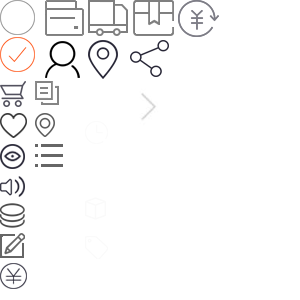
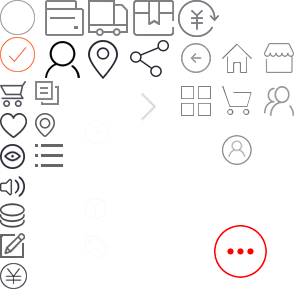
修改部分页面的样式

diff --git a/m/Mobile-mall/css/shopping_car.css b/m/Mobile-mall/css/shopping_car.css
@@ -1,14 +1,14 @@
 @charset "UTF-8";
 body{background-color: #f0f0f0;}
 /*头部*/
-header{height: 50px;line-height: 50px;border-bottom: 1px solid #cacaca;margin-bottom: 20px;font-size: 14px;padding: 0 10px;background-color: #fff;top: 0;}
+header{height: 50px;line-height: 50px;border-bottom: 1px solid #cacaca;font-size: 14px;padding: 0 10px;background-color: #fff;top: 0;}
 header,footer{width: 100%;position: fixed;left: 0;z-index: 2;-webkit-box-sizing: border-box;box-sizing: border-box;}
 header .btnBox{float: right;margin-top: 10px;}
 header .btn{height: 28px;border: 1px solid #ccc;color: #000;padding: 0 20px;float: left;line-height: 28px;}
 header .btn:first-child{margin-right: 20px;}
 /*产品*/
-.productBox{border-top: 1px solid #ccc;border-bottom: 1px solid #ccc;background-color: #fff;margin-bottom: 20px;}
-.productBox:first-of-type{margin-top: 70px;}
+.productBox{border-top: 1px solid #ccc;border-bottom: 1px solid #ccc;background-color: #fff;margin-bottom: 10px;}
+.productBox:first-of-type{margin-top: 60px;}
 .productBox:last-of-type{margin-bottom: 70px;}
 .product{/*height: 157px;*/border-bottom: 1px solid #ccc;padding: 20px 10px 0 10px;}
 .pro-content{height: 4.2rem;position: relative;}
@@ -24,8 +24,8 @@ header .btn:first-child{margin-right: 20px;}
 .product .pro-text .price b{color: #666;text-decoration: line-through;margin-left: 30px;font-size: .6rem;}
 .number-control{border: 1px solid #cdcdcd;height: 1.95rem;line-height: 1.95rem;float: left;vertical-align: middle;overflow: hidden;margin-bottom: 15px;margin-left: 6.025rem;}
 .number-control .decrease,.number-control .increase{height: 100%;width: 1.95rem;background-color: #efefef;color: #767676;-webkit-user-select: none;display: inline-block;font-size: 1rem;border: none;}
-.number-control .decrease{border-right: 1px solid #cdcdcd;}
-.number-control .increase{border-left: 1px solid #cdcdcd;}
+.number-control .decrease{border-left: 1px solid #cdcdcd;}
+.number-control .increase{border-right: 1px solid #cdcdcd;}
 .number-control .num{height: 100%;width: 2.75rem;padding: 0 .2rem;-webkit-box-sizing: border-box;box-sizing: border-box;border: none;}
 .number-control .decrease,.number-control .increase,.number-control .num{text-align: center;float: left;}
 .productBox .count{float: right;font-size: 0;height: 50px;line-height: 50px;padding: 0 10px;}
@@ -39,7 +39,7 @@ footer .checkAll{margin-left: 10px;margin-right: 13px;}
 footer .checkAll .checkbox{margin-right: 5px;margin-top: -2px;}
 footer .checkAll,footer p{display: inline-block;font-size: .6rem;}
 footer p span{margin-right: .35rem;color: #ff4401;}
-footer .submit{height: 100%;background-color: #696969;color: #fff;font-size: 14px;padding: 0 10px;float: right;}
+footer .submit{width: 77px;height: 100%;background-color: #696969;color: #fff;font-size: 14px;/*padding: 0 25px;*/float: right;margin-bottom: 10px;text-align: center;}
 footer .submit em{font-style: normal;}
 /*无商品状态*/
 .no-goods .shopping-icon{width: 4.375rem;height: 4.375rem;line-height: 4.375rem;background-color: #d8d8d8;margin: 81px auto 0;border-radius: 999px;text-align: center;}
@@ -49,3 +49,26 @@ footer .submit em{font-style: normal;}
 .no-goods .btnBox{width: 12rem;margin: 20px auto 40px;}
 .no-goods .btnBox a{width: 5.5rem;height: 40px;line-height: 40px;text-align: center;font-size: .6rem;color: #000;border: 1px solid #a8a8a8;float: left;}
 .no-goods .btnBox a:first-of-type{margin-right: .5rem;}
+/*悬浮状态*/
+.shopping-menuBox{width: 45px;height: 45px;position: fixed;bottom: 93px;right: 0;z-index: 9;}
+.shopping-menu{width: 45px;height: 45px;background: rgba(0,0,0,.8);text-align: center;display: block;}
+.shopping-menu .shopping-menuIcon{width: 27px;height: 27px;margin-top: 9px;background: url(../images/icon.png) no-repeat;background-size: 150px 150px;background-position: -66px -112px;display: inline-block;}
+.shopping-menuBox .menuList{width: 80px;background-color: #fff;padding: 0 10px 0 15px;border: 1px solid #d9d9d9;position: absolute;right: 0;bottom: 50px;display: none;}
+.shopping-menuBox .menuList a{/*height: 44px;line-height: 44px;*/padding: .5rem 0 .6rem 0;color: #585858;display: block;border-bottom: 1px solid #d9d9d9;font-size: 14px;}
+.shopping-menuBox .menuList a:last-of-type{border-bottom: 0;}
+.shopping-menuBox .arrow{ position:absolute; width:12px; height:12px; bottom:-12px; right: 22%; }
+.shopping-menuBox .arrow *{ display:block; border-width:6px; position:absolute; border-style:solid dashed dashed dashed; font-size:0; line-height:0; }
+.shopping-menuBox .arrow em{border-color:#fff transparent transparent;}
+.shopping-menuBox .arrow span{border-color:#d9d9d9 transparent transparent;}
+/*.shopping-menuBox .arrow:after,.shopping-menuBox .arrow:before{border: transparent solid;content:' ';height:0;left:100%;position:absolute;width:0;}
+.shopping-menuBox .arrow:after{border-width:9px;border-top-color:#fff;top:15px;}
+.shopping-menuBox .arrow:before{border-width:14px;border-top-color:#d9d9d9;top:10px;}*/
+/*悬浮状态图标*/
+.back-icon,.goods-icon,.store-icon,.cart-icon,.my-icon,.team-icon,.center-icon{width: 16px;height: 16px;background: url(../images/icon.png) no-repeat;background-size: 150px 150px;display: inline-block;vertical-align: middle;margin-right: 8px;margin-top: -3px;}
+.back-icon{background-position: -90px -21px;}
+.goods-icon{width: 16px;background-position: -90px -43px;}
+.store-icon{height: 16px;background-position: -111px -22px;}
+.cart-icon{background-position: -111px -43px;}
+.my-icon{height: 16px;background-position: -131px -21px;}
+.team-icon{background-position: -132px -43px;}
+.center-icon{height: 16px;background-position: -111px -67px;}

diff --git a/m/Mobile-mall/shopping_car.html b/m/Mobile-mall/shopping_car.html
@@ -52,9 +52,9 @@
 				</div>
 			</div>
 			<div class="number-control clearfix">
-				<button type="button" class="decrease">-</button>
-				<input type="number" class="num" value="1" min="1" max="13583" name="quantity">
 				<button type="button" class="increase">+</button>
+				<input type="number" class="num" value="1" min="1" max="13583" name="quantity">
+				<button type="button" class="decrease">-</button>
 			</div>
 		</div>
 		<div class="count">
@@ -80,9 +80,9 @@
 				</div>
 			</div>
 			<div class="number-control clearfix">
-				<button type="button" class="decrease">-</button>
-				<input type="number" class="num" value="1" min="1" max="13583" name="quantity">
 				<button type="button" class="increase">+</button>
+				<input type="number" class="num" value="1" min="1" max="13583" name="quantity">
+				<button type="button" class="decrease">-</button>
 			</div>
 		</div>
 		<div class="count">
@@ -93,8 +93,22 @@
 	<footer>
 		<label for="all" class="checkAll"><input id="all" type="checkbox" class="checkbox">全选</label>
 		<p>合计：<span>¥112610.00</span>不含运费</p>
-		<a href="javascript:" class="submit">结算（<em>0</em>）</a>
+		<a href="javascript:" class="submit">结算<!-- （<em>0</em>） --></a>
 	</footer>
+	<!-- 悬浮状态 -->
+	<div class="shopping-menuBox">
+		<a href="#" class="shopping-menu"><i class="shopping-menuIcon"></i></a>
+		<div class="menuList">
+			<a href="#"><i class="back-icon"></i>返回上页</a>
+			<a href="#"><i class="goods-icon"></i>全部商品</a>
+			<a href="#"><i class="store-icon"></i>店铺首页</a>
+			<a href="#"><i class="cart-icon"></i>购物车</a>
+			<a href="#"><i class="my-icon"></i>我的小店</a>
+			<a href="#"><i class="team-icon"></i>团队中心</a>
+			<a href="#"><i class="center-icon"></i>个人中心</a>
+			<div class="arrow"><em></em><span></span></div>
+		</div>
+	</div>
 	<!-- 无商品状态 -->
 	<section class="no-goods" style="display: none;">
 		<div class="shopping-icon"><img src="images/shopping_icon.png" alt=""></div>

diff --git a/m/Mobile-mall/css/all_classification.css b/m/Mobile-mall/css/all_classification.css
@@ -23,7 +23,7 @@
 #classification .pirce strong{float: left;font-size: 16px;color: #e42121;}
 #classification .pirce span{float: right;text-decoration: line-through;}
 /*全部分类下拉菜单*/
-#classification .allBox{width: 7.8rem;height: 100%;background-color: rgba(0,0,0,.9);color: #fff;position: absolute;top: 0;left: 0;transform: translateX(-7.8rem);transform: translateX(0);transition: all .5s;font-size: .6rem;}
+#classification .allBox{width: 7.8rem;height: 100%;background-color: rgba(0,0,0,.9);color: #fff;position: absolute;top: 0;left: 0;transform: translateX(-7.8rem);/*transform: translateX(0);*/transition: all .5s;font-size: .6rem;}
 #classification .allBox li,#classification .allBox dl{padding: 0 10px;}
 #classification .allBox p,#classification .allBox dt{border-bottom: 1px solid #463d3d;}
 #classification .allBox p,#classification .allBox dt,#classification .allBox dd{padding: 10px 0;}
@@ -60,25 +60,3 @@
 #classification .product-list .pro-text .price{color: #e42121;font-size: 18px;position: absolute;bottom: 5px;left: 0;}
 #classification .product-list .pro-text .price em{font-size: 12px;}
 #classification .product-list .pro-text .buy-btn{width: 3.55rem;height: 1.25rem;line-height: 1.25rem;text-align: center;background-color: #fe4f01;color: #fff;position: absolute;bottom: 5px;right: 0;}
-#classification
-#classification
-#classification
-#classification
-#classification
-#classification
-
-
-
-
-
-
-
-
-
-
-
-
-
-
-
-

diff --git a/m/Mobile-mall/js/shopping_car.js b/m/Mobile-mall/js/shopping_car.js
@@ -42,4 +42,14 @@ $('#all').on('click',function (){
 // 判断所有的宝贝是否被选中
 var nowCheckLen = $('.pro-check:checked').length;
 
-//if()
+var onOff = true;
+$('.shopping-menu').on('click',function (){
+	if(onOff){
+		$(this).find('.shopping-menuIcon').css({'background-position': '-107px -113px'});
+		$(this).siblings('.menuList').show();
+	}else{
+		$(this).find('.shopping-menuIcon').css({'background-position': '-66px -112px'});
+		$(this).siblings('.menuList').hide();
+	}
+	onOff = !onOff;
+});

diff --git a/m/Mobile-mall/all_classification.html b/m/Mobile-mall/all_classification.html
@@ -156,5 +156,13 @@
 		<!-- 全部分类下拉菜单结束 -->
 	</section>
 </div>
+<script src="js/jquery-1.9.1.min.js"></script>
+<script>
+$('.active').on('click',function (){
+	console.log('1');
+	$(this).siblings('.sort').show();
+	console.log('2');
+});
+</script>
 </body>
 </html>
